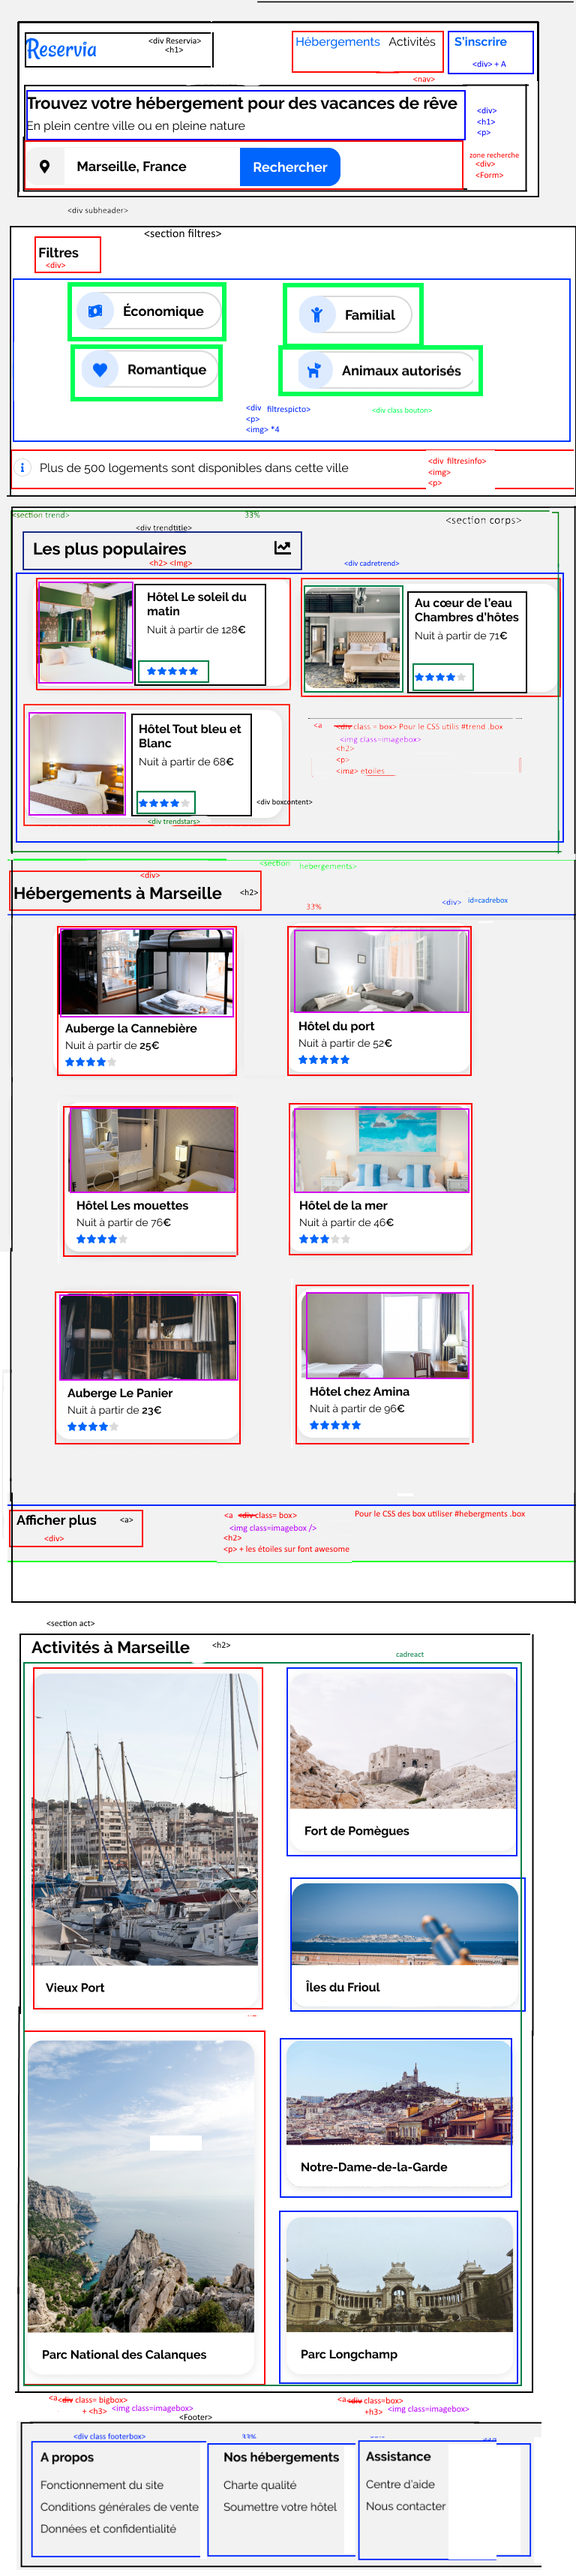
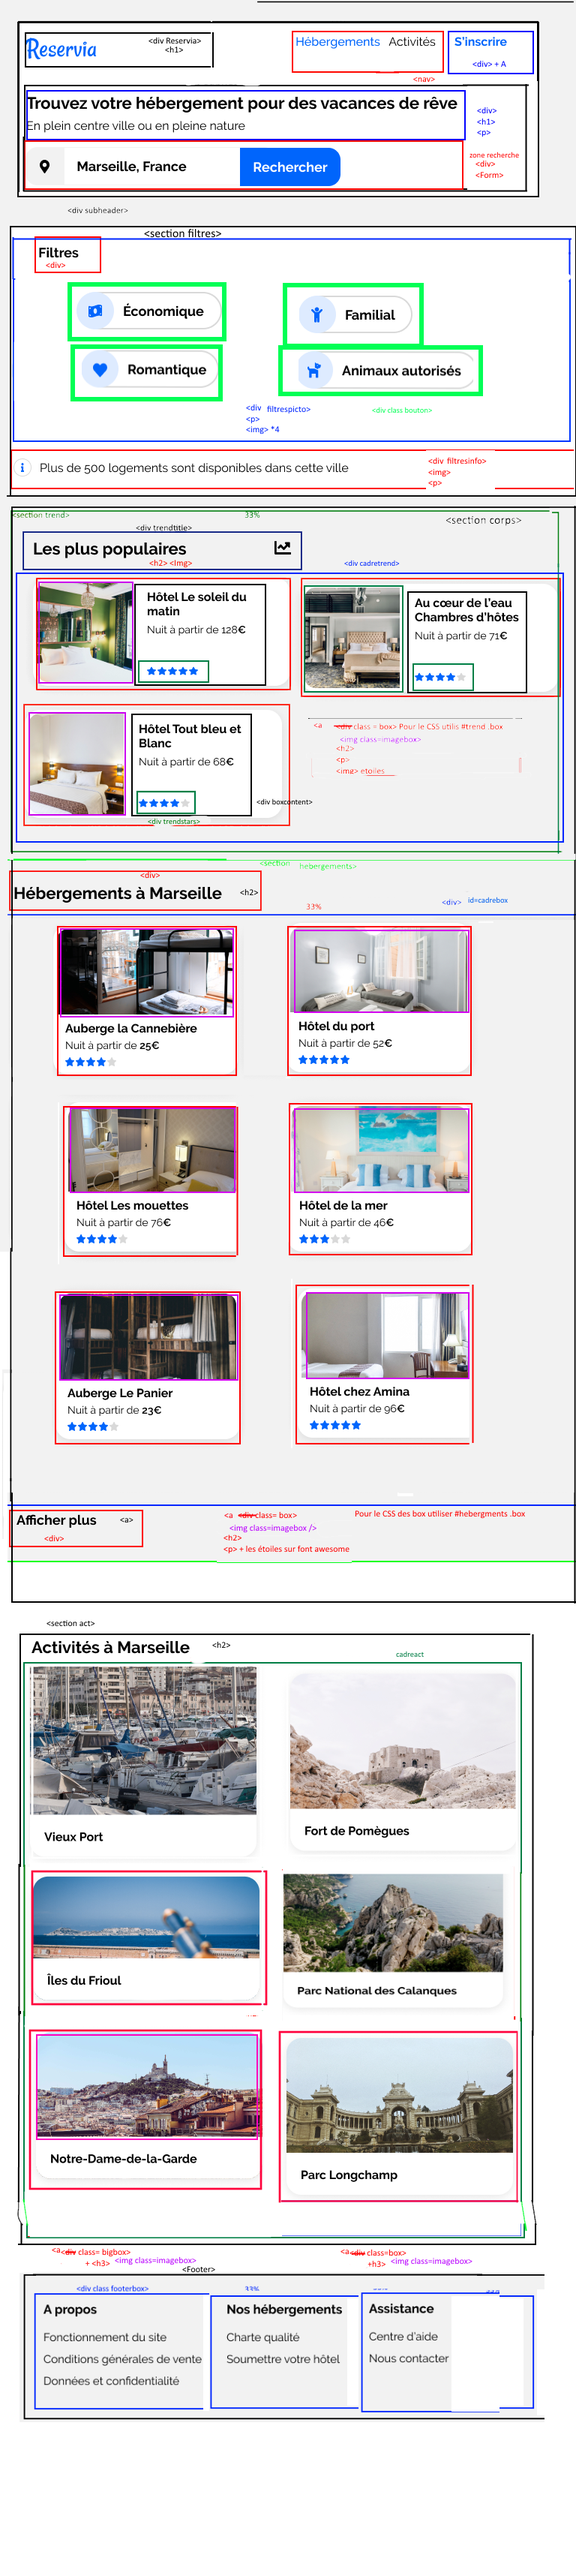
Responsive tablette première version

Changed region(s): [[0.0312, 0.6234, 0.9375, 0.9974]]

diff --git a/style.css b/style.css
@@ -19,6 +19,14 @@
     Gris:           #F2F2F2
     Gris shadow:    #c2c2c2 */
 
+/* breakpoints mediaqueries
+    >767px mobile
+    1023px < 768px tablettes
+    1024px < desktop */
+    
+
+    /* style général de la page */
+
 body 
 {
   font-family: "Raleway", sans-serif;  /*application de la police raleway à tout le document */
@@ -26,13 +34,13 @@ body
   
 }
 
-p,a
+p,a /* police textes */
 {
   font-size: 1.1em;
 }
 
 
-h1,h2 /* taille des titres*/
+h1,h2 /* police titres*/
 {
  font-size: 1.4em;
 }
@@ -42,10 +50,11 @@ a /* les liens sont non-soulignés et noirs par défaut */
   color: black;  
 }
 
-i /* Toutes les icônes sont en bleu (exception icône GPS) */
+i /* Toutes les icônes sont en bleu par défaut */
 {
 color: #0065FC;
 }
+
 
 /* style header */
 
@@ -59,7 +68,7 @@ header
 
 #Reservia
 {width:70%;/* on précise la largeur pour positionnement subheader */
-  position:relative;
+  position:relative; /* Compenser le décalage dû aux blancs dans le logo */
   bottom: 13px;
 }
 #Reservia img /* Resize logo reservia*/
@@ -107,6 +116,33 @@ font-weight: bold;
 margin-bottom: 1px;
 margin-top: 0;
 }
+
+/* design header tablette */
+
+@media (min-width:768px) and (max-width:1023px)
+{
+  #Reservia {
+    width: 50%;}
+
+  nav {
+    width: 30%;
+    justify-content: space-between;
+  }
+
+
+
+
+}
+/* design header mobile */
+@media (max-width:767px)
+{
+  body{ color: red;
+    
+  
+  }
+
+}
+
 
 /* style zone de recherche subheader */
 
@@ -156,6 +192,9 @@ align-items: center;
 }
 
 
+
+
+/* design subheader mobile */
 
 
 
@@ -231,11 +270,68 @@ margin-left: 0.5em;
 
 }
 
+/* design filtres tablette */
+
+@media (min-width:768px) and (max-width:1023px)
+{
+
+  #filtrespicto div /*Mettre le titre filtres sur une ligne */
+  {
+    width: 100%;
+
+  }
+  #filtrespicto  /*Retour à la ligne filtres */
+  {
+      flex-wrap: wrap;
+  }
+
+  #filtrespicto a
+  { min-width: 35%;
+    margin-bottom: 20px;
+
+
+  }
+
+
+}
+/* design filtres mobile */
+@media (max-width:767px)
+{
+  body
+  {
+    color: red;
+    
+  
+  }
+}
+
+  /* Disposition corps de page */
+
 #corps /* flexer la div qui gère le corps de la page */
 {
 display: flex;
 justify-content: space-between;
 
+
+}
+
+
+/* disposition corps tablette */
+
+@media (min-width:768px) and (max-width:1023px)
+{
+  #corps { flex-direction: column;}
+    
+    
+  
+}
+/* disposition corps mobile */
+@media (max-width:767px)
+{
+  #corps { flex-direction: column;}
+    
+  
+  
 
 }
 
@@ -307,6 +403,34 @@ left: 20px; bottom: 10px;
 
 }
 
+/* design hebergements tablette */
+
+@media (min-width:768px) and (max-width:1023px)
+{
+   #hebergements
+   {
+     order: 2;
+     width: 102%;
+     margin-top: 20px;
+    }
+
+    #hebergements .box
+    {
+      width: 45%;
+
+    }
+}
+/* design hebergements mobile */
+@media (max-width:767px)
+{
+  #hebergements{
+    order: 2;
+    width: 100%;
+    
+  
+  }
+}
+/* bouton afficher */
 #afficher
 {
  margin: 0 0 1em 5em ;
@@ -398,6 +522,39 @@ margin-left: 5px;
 
 }
 
+/* design trend tablette */
+
+@media (min-width:768px) and (max-width:1023px)
+{
+
+  #trend 
+  {
+    order: 1;
+    width: 100%;
+  }
+  #cadretrend
+  {
+    flex-direction: row;
+    flex-wrap: wrap;
+    justify-content: space-between;
+  }
+  #cadretrend .box
+  {
+    width: 45%;
+
+
+  }
+}
+/* design trend mobile */
+@media (max-width:767px)
+{
+  #trend 
+  {
+  order: 1;
+  width: 100%;
+  }
+  
+}
 
 /* Style section Activité */
 
@@ -460,6 +617,44 @@ margin-left: 5%;
 
 }
 
+/* design Activités tablette */
+
+@media (min-width:768px) and (max-width:1023px)
+{
+  .cadreact /* changement direction flex cadreact */
+  {
+    flex-direction: row;
+  height: auto;
+  
+  }
+  .cadreact .box, .cadreact .bigbox
+  {
+    width: 45%;
+    height: 250px;
+    margin-bottom: 20px;
+    
+    
+  }
+
+  .cadreact .box .imagebox, .cadreact .bigbox .imagebox
+  {
+    height: 70%;
+
+
+
+  }
+  
+
+
+
+}
+/* design Activités mobile */
+@media (max-width:767px)
+{
+  body{color: red;}
+    
+  
+  }
 
 
 /* Style footer */
@@ -480,5 +675,19 @@ margin-left: 3%;
 
 }
 
+/* design footer tablette */
 
-
+@media (min-width:768px) and (max-width:1023px)
+{
+  body {
+    
+    
+  }
+}
+/* design footer mobile */
+@media (max-width:767px)
+{
+  body{color: red;}
+    
+  
+  }

diff --git a/index.html b/index.html
@@ -29,6 +29,8 @@
         </header>
 
         <section id="filtres"> <!-- Flexboxer en colonnes-->
+
+            
             <div id="filtrespicto"> <!-- Flexboxer en lignes--> <!-- utiliser  #bouton pour la mise en forme des boutons CSS-->
                 <div> <!--cette div est nécessaire pour le reponsive mobile-->
                     <h2>Filtres</h2>
